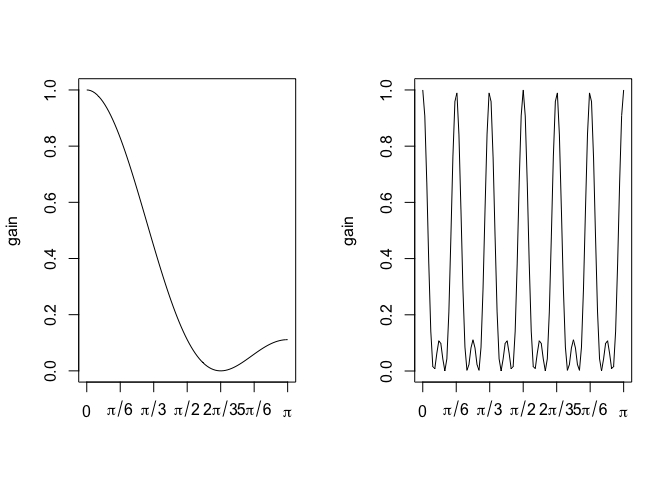
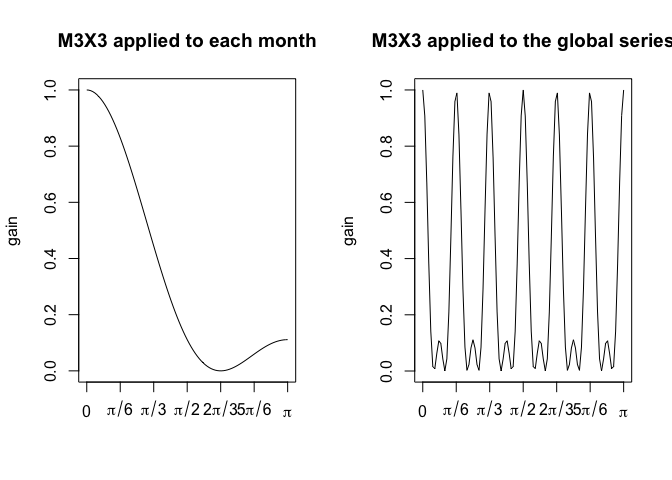
typo

Changed region(s): [[0.5312, 0.0625, 1.0, 0.125], [0.0625, 0.0625, 0.4688, 0.125]]

diff --git a/README.md b/README.md
@@ -173,13 +173,13 @@ par(def.par)
 
 <img src="man/figures/README-diagnostic-plots-1.png" style="display: block; margin: auto;" />
 
-### Manipulate moving average
+### Manipulate moving averages
 
-You can also create and manipulate moving average with the class
-`moving_average`. In the next example we show how to create the M2X12
+You can also create and manipulate moving averages with the class
+`moving_average`. In the next examples we show how to create the M2X12
 moving average, the first moving average used to extract the trend-cycle
-in X-11, and the M3X3 moving average, applied on each months to extract
-seasonal component
+in X-11, and the M3X3 moving average, applied to each months to extract
+seasonal component.
 
 ``` r
 e1 <- moving_average(rep(1,12), lags = -6)
@@ -201,8 +201,8 @@ M3X3_seasonal <- to_seasonal(M3X3, 12)
 M3X3_seasonal
 #> [1] "0,1111 B^24 + 0,2222 B^12 + 0,3333 + 0,2222 F^12 + 0,1111 F^24"
 layout(matrix(c(1,2), nrow = 1))
-plot_gain(M3X3)
-plot_gain(M3X3_seasonal)
+plot_gain(M3X3, main = "M3X3 applied to each month")
+plot_gain(M3X3_seasonal, main = "M3X3 applied to the global series")
 ```
 
 <img src="man/figures/README-mm-plots-1.png" style="display: block; margin: auto;" />
